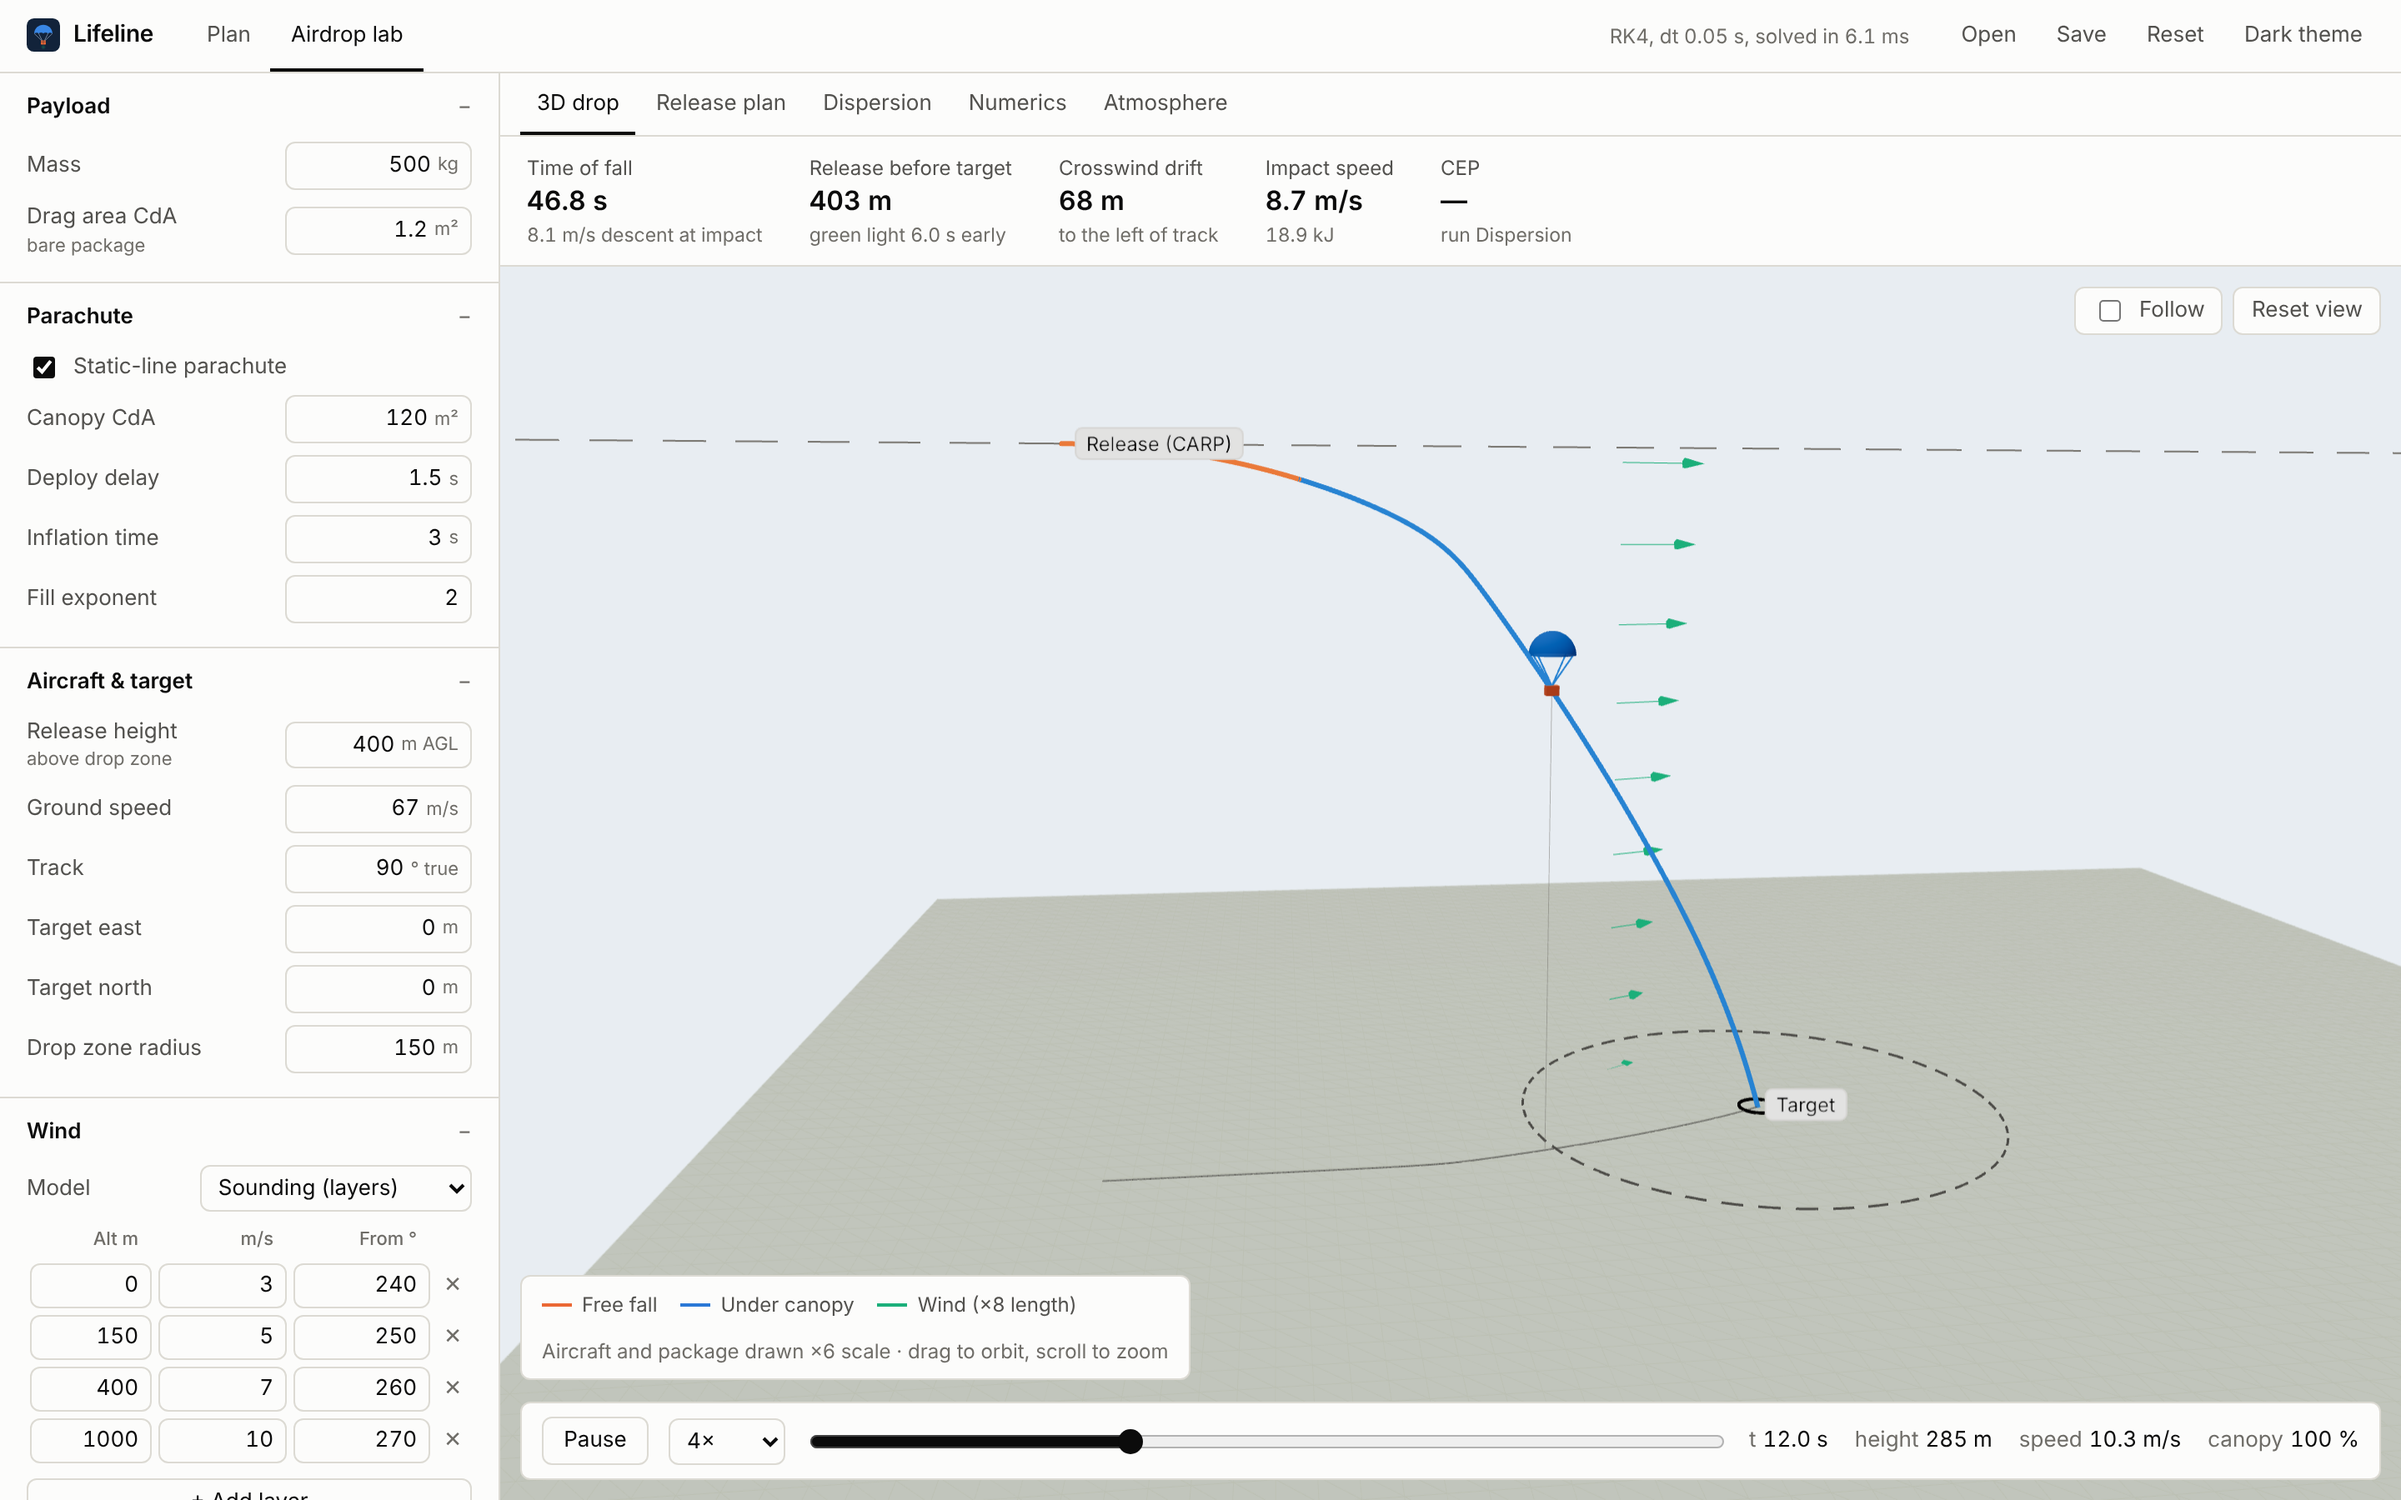
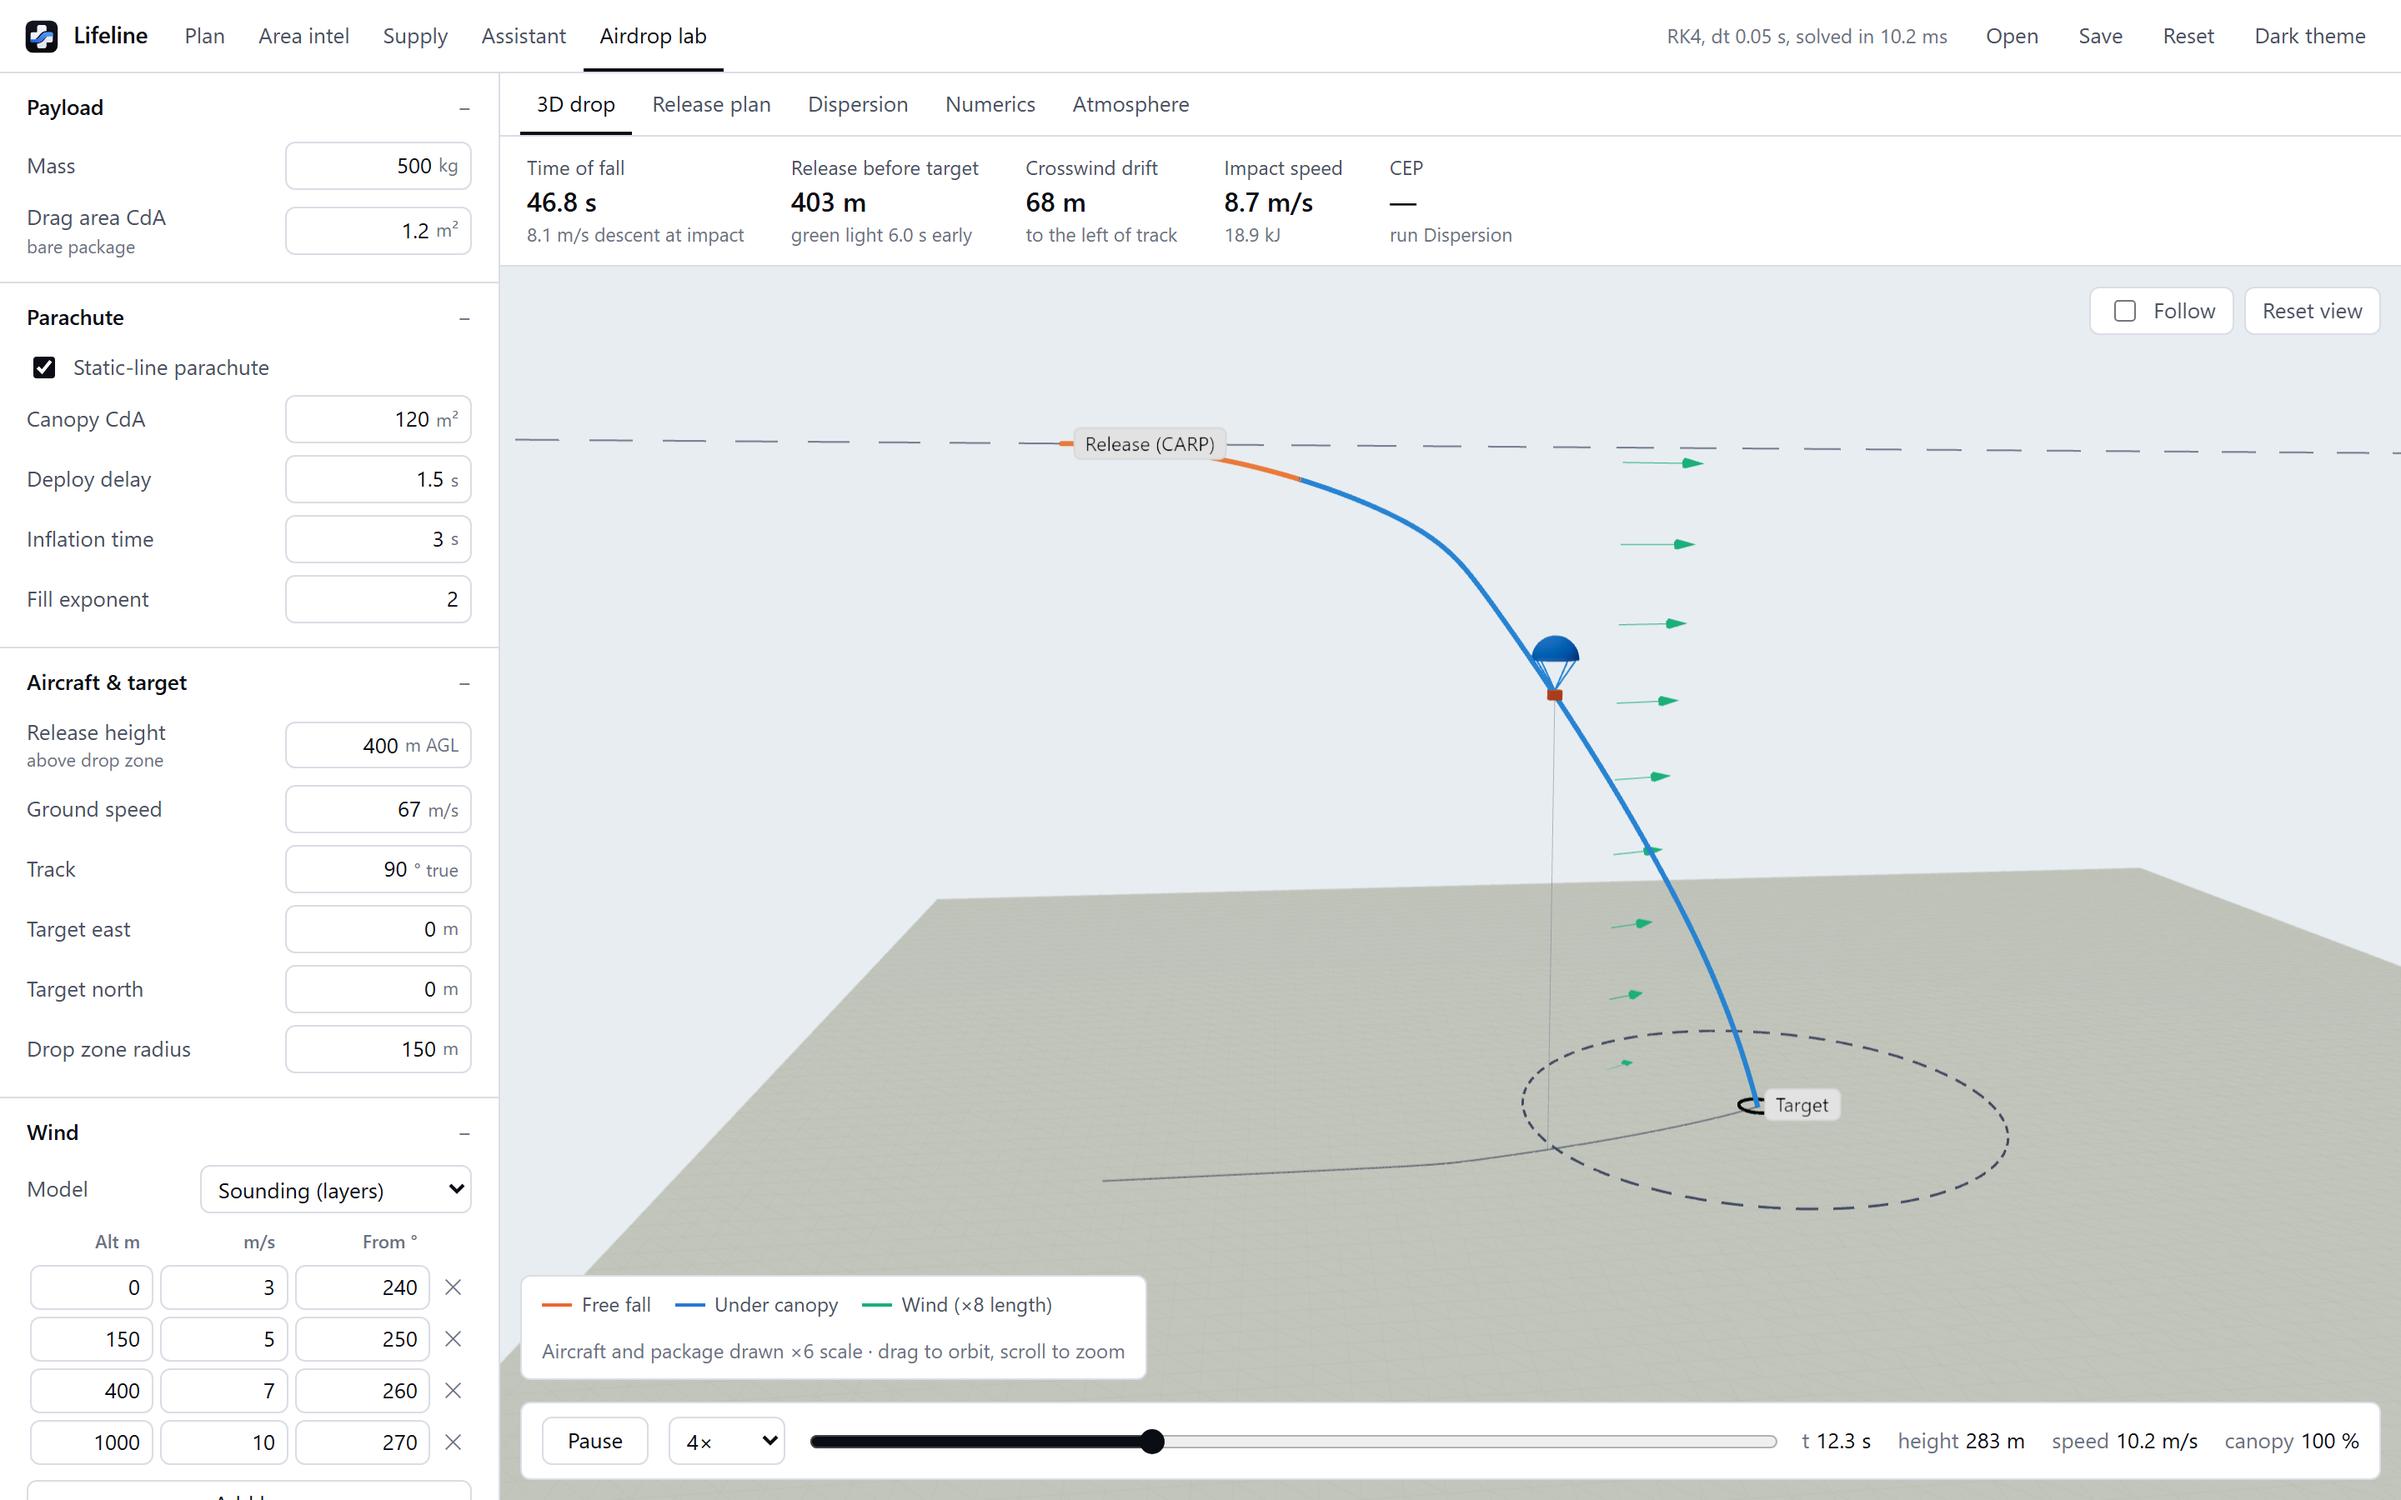
Release 0.2.0: workspaces, polish and new showcases
Area intel, Supply and Assistant are in the app; flood staging and
top-bar polish; version bumped; README gallery updated with new shots.

diff --git a/src/supply/SupplyWorkspace.tsx b/src/supply/SupplyWorkspace.tsx
@@ -25,9 +25,7 @@ function shortfallsByRequest(alloc: Allocation | null): Record<string, string[]>
   if (!alloc) return {};
   const out: Record<string, string[]> = {};
   for (const s of alloc.shortfalls) {
-    const item = alloc.picks.find((p) => p.item === s.item)?.item ?? s.item;
-    const name = item;
-    (out[s.request_id] ??= []).push(`${name}: need ${s.needed}, have ${s.picked} (${s.reason})`);
+    (out[s.request_id] ??= []).push(`${s.item}: need ${s.needed}, have ${s.picked} (${s.reason})`);
   }
   return out;
 }
@@ -100,9 +98,38 @@ export function SupplyWorkspace({
     }
   }, [scenario, plan, publish, onStatus]);
 
+  // initial load only; plan/scenario changes re-allocate below
   useEffect(() => {
     void refresh();
-  }, [refresh]);
+    // eslint-disable-next-line react-hooks/exhaustive-deps
+  }, []);
+
+  useEffect(() => {
+    if (!snap || !scenario || !plan || !snap.locations.length) {
+      setAlloc(null);
+      if (snap) publish(snap, null);
+      return;
+    }
+    let cancelled = false;
+    api
+      .supplyAllocate(
+        scenario,
+        plan,
+        snap.locations.map((l) => l.id),
+        todayIso(),
+      )
+      .then((a) => {
+        if (cancelled) return;
+        setAlloc(a);
+        publish(snap, a);
+      })
+      .catch((e) => {
+        if (!cancelled) setError(errorText(e));
+      });
+    return () => {
+      cancelled = true;
+    };
+  }, [scenario, plan, snap, publish]);
 
   useEffect(() => {
     if (snap?.items.length && !draft.item) {

diff --git a/src/styles.css b/src/styles.css
@@ -100,10 +100,11 @@ h4 {
 .topbar {
   display: flex;
   align-items: center;
-  gap: 20px;
-  padding: 0 12px 0 16px;
+  gap: 12px;
+  padding: 0 10px 0 14px;
   border-bottom: 1px solid var(--border);
   background: var(--surface);
+  min-height: 44px;
 }
 
 .brand {
@@ -113,25 +114,31 @@ h4 {
   font-weight: 600;
   font-size: 14px;
   letter-spacing: -0.01em;
+  flex-shrink: 0;
 }
 
 .brand img {
-  width: 20px;
-  height: 20px;
+  width: 22px;
+  height: 22px;
 }
 
 .workspaces {
   display: flex;
   height: 100%;
+  flex-shrink: 1;
+  min-width: 0;
+  overflow-x: auto;
 }
 
 .workspaces button {
   border: 0;
   background: none;
-  padding: 0 12px;
+  padding: 0 10px;
   color: var(--text2);
   cursor: pointer;
   box-shadow: inset 0 -2px 0 transparent;
+  white-space: nowrap;
+  flex-shrink: 0;
 }
 
 .workspaces button:hover {
@@ -153,12 +160,14 @@ h4 {
   white-space: nowrap;
   overflow: hidden;
   text-overflow: ellipsis;
-  max-width: 40vw;
+  max-width: min(28vw, 320px);
+  flex-shrink: 1;
 }
 
 .actions {
   display: flex;
   gap: 2px;
+  flex-shrink: 0;
 }
 
 .workspace {

diff --git a/src/intel/IntelWorkspace.tsx b/src/intel/IntelWorkspace.tsx
@@ -61,6 +61,15 @@ export function IntelWorkspace({
     if (!productFits(product, sensor)) setProduct(products[0]?.value ?? "true_color");
   }, [sensor, product, products]);
 
+  // new planning area: drop the previous look
+  useEffect(() => {
+    setImage(null);
+    setChange(null);
+    setScenes([]);
+    setPicked(null);
+    setError(null);
+  }, [area?.name, area?.lat, area?.lon, area?.size_m]);
+
   const list = async () => {
     if (!area) return;
     setBusy("Listing scenes…");

diff --git a/src/App.tsx b/src/App.tsx
@@ -39,6 +39,15 @@ export default function App() {
     }
   }, [theme]);
 
+  // drop the intel scene when the planning area changes
+  const areaKey = planState?.area
+    ? `${planState.area.name}:${planState.area.lat}:${planState.area.lon}:${planState.area.size_m}`
+    : "";
+  useEffect(() => {
+    setScenePng(null);
+    setSceneBounds(null);
+  }, [areaKey]);
+
   const flash = (msg: string) => {
     setNotice(msg);
     window.clearTimeout(noticeTimer.current);

diff --git a/README.md b/README.md
@@ -31,8 +31,9 @@ KML and Cursor-on-Target for ATAK.
 
 It is built for the planning cell of a relief operation, or a logistics unit
 working where roads are cut, the weather matters and some areas are unsafe.
-It runs on one laptop (Windows, macOS, Linux) and keeps working offline once
-an area has been loaded.
+Five workspaces cover the job: *Plan*, *Area intel*, *Supply*, *Assistant*
+and *Airdrop lab*. It runs on one laptop (Windows, macOS, Linux) and keeps
+working offline once an area has been loaded.
 
 ![Lifeline planning seven deliveries around Gorkha, Nepal: truck routes, a drone flight and an airdrop on real terrain](docs/img/plan.png)
 
@@ -44,12 +45,12 @@ free and has no account, telemetry or licence key.
 
 | System | File | Notes |
 | --- | --- | --- |
-| Windows 10 and 11, 64-bit | [`Lifeline_0.1.0_x64-setup.exe`](https://github.com/sekaikx/lifeline/releases/latest) | Installer, the usual choice |
-| | [`Lifeline_0.1.0_x64_en-US.msi`](https://github.com/sekaikx/lifeline/releases/latest) | MSI package, for managed deployment |
-| macOS, Apple silicon and Intel | [`Lifeline_0.1.0_universal.dmg`](https://github.com/sekaikx/lifeline/releases/latest) | Disk image; drag Lifeline to Applications |
-| Debian 12+, Ubuntu 22.04+ | [`Lifeline_0.1.0_amd64.deb`](https://github.com/sekaikx/lifeline/releases/latest) | Debian package; install with apt |
-| Fedora, RHEL, openSUSE | [`Lifeline-0.1.0-1.x86_64.rpm`](https://github.com/sekaikx/lifeline/releases/latest) | RPM package; install with dnf or zypper |
-| Other Linux, x86-64 | [`Lifeline_0.1.0_amd64.AppImage`](https://github.com/sekaikx/lifeline/releases/latest) | Make it executable (`chmod +x`), then run it |
+| Windows 10 and 11, 64-bit | [`Lifeline_0.2.0_x64-setup.exe`](https://github.com/sekaikx/lifeline/releases/latest) | Installer, the usual choice |
+| | [`Lifeline_0.2.0_x64_en-US.msi`](https://github.com/sekaikx/lifeline/releases/latest) | MSI package, for managed deployment |
+| macOS, Apple silicon and Intel | [`Lifeline_0.2.0_universal.dmg`](https://github.com/sekaikx/lifeline/releases/latest) | Disk image; drag Lifeline to Applications |
+| Debian 12+, Ubuntu 22.04+ | [`Lifeline_0.2.0_amd64.deb`](https://github.com/sekaikx/lifeline/releases/latest) | Debian package; install with apt |
+| Fedora, RHEL, openSUSE | [`Lifeline-0.2.0-1.x86_64.rpm`](https://github.com/sekaikx/lifeline/releases/latest) | RPM package; install with dnf or zypper |
+| Other Linux, x86-64 | [`Lifeline_0.2.0_amd64.AppImage`](https://github.com/sekaikx/lifeline/releases/latest) | Make it executable (`chmod +x`), then run it |
 
 The installers are not code-signed yet, so Windows and macOS warn the first
 time you open Lifeline.
@@ -104,9 +105,13 @@ What to try in the first five minutes.
 4. Try the flood check. Load *Dadu, Pakistan*, a 40 km square on the
    Indus. Under *Risk*, in *Satellite flood check*, set *As of* to
    5 September 2022 and press *Detect new water*. Newly flooded land is
-   added as an impassable area and the plan is recomputed around it. Repeat
-   with 5 September 2021 to see the same ground a year before the flood.
-5. *Save* writes the scenario as JSON. *Open* reads it back, and
+   added as an impassable area and the plan is recomputed around it. The
+   *Staging* list shows which requests lost truck access. Repeat with
+   5 September 2021 to see the same ground a year before the flood.
+5. Open *Area intel* to pull Sentinel-2, Landsat or radar for any date, or
+   *Supply* and *Load example* for lot-tracked stock that feeds the plan.
+   *Assistant* stays off until you turn it on in its settings.
+6. *Save* writes the scenario as JSON. *Open* reads it back, and
    the [`lifeline` command](#command-line) plans the same file.
 
 Everything on the map can be dragged: the depot, requests and observed areas.
@@ -143,6 +148,10 @@ The plan updates as you go.
 | ![Sentinel-2 true-colour imagery under the plan](docs/img/satellite.png) | ![Flooded land detected by the trained network, closing roads around Dadu](docs/img/flood.png) |
 | **Truck, drone and airdrop compared for one request** | **Airdrop lab: release point and descent in 3-D** |
 | ![Option comparison panel with route alternatives](docs/img/plan-request.png) | ![Parachute drop simulation with wind profile](docs/img/airdrop-lab.png) |
+| **Area intel: any date, three missions** | **Supply: lots, ledger and FEFO picks** |
+| ![Area intel workspace with a Sentinel-2 scene and A1–H8 grid](docs/img/area-intel.png) | ![Supply workspace with stock lots and allocation](docs/img/supply.png) |
+| **Assistant: plan chat and image reading** | **Staging when flood cuts truck routes** |
+| ![Assistant workspace with settings and chat](docs/img/assistant.png) | ![Plan staging list after a flood check](docs/img/staging.png) |
 
 ## A worked example
 
@@ -339,7 +348,7 @@ npm run tauri dev        # desktop app with hot reload
 npm run tauri build      # installer for your OS
 ```
 
-Pushing a tag such as `v0.1.0` builds the Windows, macOS and Linux
+Pushing a tag such as `v0.2.0` builds the Windows, macOS and Linux
 installers in GitHub Actions and attaches them to a release. Checks, tests
 and style notes for contributors are in [CONTRIBUTING.md](CONTRIBUTING.md).
 

diff --git a/CHANGELOG.md b/CHANGELOG.md
@@ -4,34 +4,31 @@ Notable changes to Lifeline. The format follows
 [Keep a Changelog](https://keepachangelog.com/en/1.1.0/), and version numbers
 follow [Semantic Versioning](https://semver.org/).
 
-## [Unreleased]
+## [0.2.0] - 2026-10-16
 
 ### Added
 
-- Satellite explorer engine: Sentinel-2 (2017–), Landsat (1982–) and
-  Sentinel-1 radar through Planetary Computer, with true colour, infrared,
-  agriculture, vegetation, moisture, water and burn products, plus two-date
-  change maps for flooding, vegetation loss and burns.
-- Supply ledger crate: lot-tracked stock by the ten classes of supply,
-  cold-chain and controlled-item rules, a tamper-evident movement log,
-  two-person sign-off for controlled items, FEFO allocation to deliveries,
-  and CSV import/export.
-- Optional AI assistant crate: cloud (Gemini, OpenRouter, Groq, Mistral) or
-  local (Ollama, LM Studio, llama.cpp) providers, separate models for chat,
-  vision and small jobs, off by default, with a local-only switch.
-- App workspaces for *Area intel*, *Supply* and *Assistant*, wired to the
-  engines above. Plan uses the chosen satellite base and supply catalogue.
-- After a flood check, Plan lists requests that lost truck access and
-  suggests drone or aircraft staging.
+- *Area intel* workspace: Sentinel-2 (2017–), Landsat (1982–) and Sentinel-1
+  radar through Planetary Computer; true colour, infrared, agriculture,
+  vegetation, moisture, water, burn and radar products; two-date change maps;
+  A1–H8 grid; apply a scene as the Plan map base.
+- *Supply* workspace: lot-tracked stock by the ten classes of supply,
+  cold-chain and controlled-item rules, tamper-evident ledger with two-person
+  sign-off, FEFO allocation to the current plan, CSV import/export, example
+  stock.
+- *Assistant* workspace: optional chat over the current plan, parse radio-style
+  text into a request, read a satellite scene; cloud or local models; off by
+  default with a local-only switch.
+- Plan staging: after a flood check, list requests that lost truck access and
+  recommend drone or aircraft.
 - Plan exports as GeoJSON, KML and Cursor-on-Target (ATAK).
-- New app icon (medical cross with lifeline) for Windows, macOS and Linux;
-  README banners and the in-app brand mark use the same mark.
+- New app icon (medical cross with lifeline) for Windows, macOS and Linux.
 
 ### Changed
 
-- Planning and map: line-of-sight computed once and cached, map payloads
-  sent only when they change, roads drawn in fewer passes, pan/zoom
-  updates once per frame.
+- Planning and map: line-of-sight computed once and cached, map payloads sent
+  only when they change, roads drawn in fewer passes, pan/zoom once per frame.
+- Top bar holds five workspaces; brand mark uses the new icon.
 
 ## [0.1.0] - 2026-10-15
 
@@ -61,4 +58,5 @@ First public release.
   `airdrop` subcommands, reading the same scenario JSON the app saves.
 - Installers built by GitHub Actions for each tagged release.
 
+[0.2.0]: https://github.com/sekaikx/lifeline/releases/tag/v0.2.0
 [0.1.0]: https://github.com/sekaikx/lifeline/releases/tag/v0.1.0
